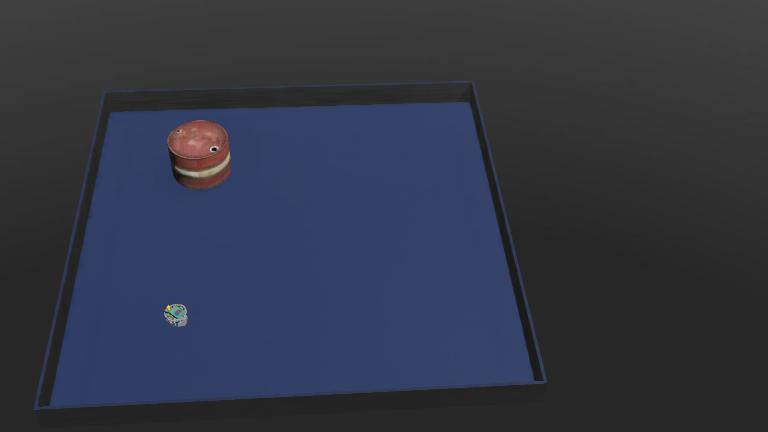
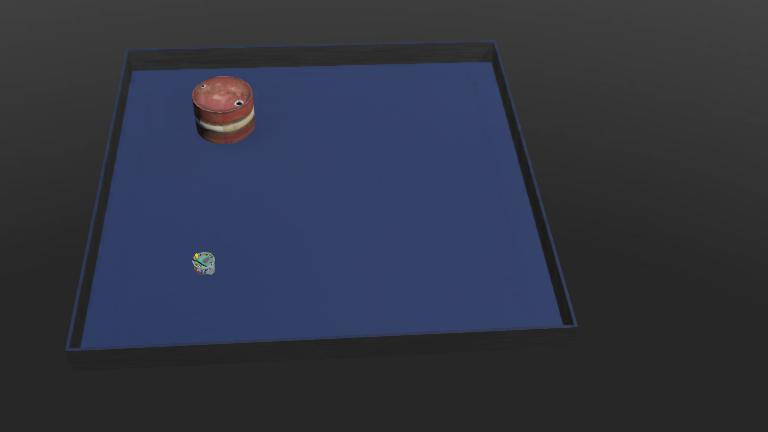
added q2c controller

Changed region(s): [[0.0312, 0.1204, 0.75, 0.963], [0.25, 0.5718, 0.2812, 0.6319], [0.2188, 0.6921, 0.25, 0.7523]]

diff --git a/Projects/Project1/controllers/q2c/q2c.py b/Projects/Project1/controllers/q2c/q2c.py
@@ -1,0 +1,118 @@
+# Copyright 1996-2023 Cyberbotics Ltd.
+#
+# Licensed under the Apache License, Version 2.0 (the "License");
+# you may not use this file except in compliance with the License.
+# You may obtain a copy of the License at
+#
+#     https://www.apache.org/licenses/LICENSE-2.0
+#
+# Unless required by applicable law or agreed to in writing, software
+# distributed under the License is distributed on an "AS IS" BASIS,
+# WITHOUT WARRANTIES OR CONDITIONS OF ANY KIND, either express or implied.
+# See the License for the specific language governing permissions and
+# limitations under the License.
+
+"""
+
+"""
+
+from controller import Robot
+import math
+
+MAX_SPEED = 6.28
+GOAL = [-0.35471, -0.35471]
+
+class Controller(Robot):
+    SPEED = 6
+    timeStep = 64
+    def __init__(self):
+        
+        super(Controller, self).__init__()
+
+        self.ps0 = self.getDevice('ps0')
+        self.ps1 = self.getDevice('ps1')
+        self.pen = self.getDevice('pen')
+        self.ps0.enable(self.timeStep)
+        self.ps1.enable(self.timeStep)
+
+        self.gps = self.getDevice('gps')
+        self.gps.enable(self.timeStep)
+
+        # Get a handler to the motors and set target position to infinity (speed control).
+        self.left_motor = self.getDevice('left wheel motor')
+        self.right_motor = self.getDevice('right wheel motor')
+        self.left_motor.setPosition(float('inf'))
+        self.right_motor.setPosition(float('inf'))
+        self.left_motor.setVelocity(0.0)
+        self.right_motor.setVelocity(0.0)
+        
+        
+        self.keyboard = self.getKeyboard()
+        self.keyboard.enable(self.timeStep)
+
+
+    def turn_towards_goal(self):
+        # Get the current GPS coordinates
+        gps_values = self.gps.getValues()
+
+        # Calculate the angle between the current orientation and the direction to the goal
+        angle_to_goal = math.atan2(GOAL[1] - gps_values[1], GOAL[0] - gps_values[0])
+
+        # Get the current velocity vector
+        current_velocity = self.gps.getSpeedVector()
+
+        # Calculate the angle of the current velocity vector
+        current_angle = math.atan2(current_velocity[1], current_velocity[0])
+
+        # Calculate the angle difference between the current orientation and the goal
+        angle_difference = angle_to_goal - current_angle
+
+        # Use proportional control to adjust the velocities
+        angular_velocity = 2 * angle_difference
+
+        # Calculate the adjusted velocities
+        left_velocity = MAX_SPEED - angular_velocity
+        right_velocity = MAX_SPEED + angular_velocity
+        dist = math.sqrt( pow(gps_values[0] - GOAL[0], 2) + pow(gps_values[1] - GOAL[1],2))
+        if left_velocity > MAX_SPEED:
+            left_velocity = MAX_SPEED
+        if right_velocity > MAX_SPEED:
+            right_velocity = MAX_SPEED
+        if left_velocity < -MAX_SPEED:
+            left_velocity = -MAX_SPEED
+        if right_velocity < -MAX_SPEED:
+            right_velocity = -MAX_SPEED
+        # Set the adjusted velocities
+        if (math.fabs(dist - 0.01) < 0.01):
+            left_velocity = 0
+            right_velocity = 0
+            print(dist)
+        self.left_motor.setVelocity(left_velocity)
+        self.right_motor.setVelocity(right_velocity)
+
+    def run(self):
+        print("Press 'G' to read the GPS device's position")
+        print("Press 'V' to read the GPS device's speed vector")
+        self.pen.write(True)
+        while self.step(self.timeStep) != -1:
+            key = chr(self.keyboard.getKey() & 0xff)
+            if key == 'G':
+                gps_values = self.gps.getValues()
+                print(f'GPS position: {gps_values[0]} {gps_values[1]} {gps_values[2]}')
+            elif key == 'V':
+                speed_vector_values = self.gps.getSpeedVector()
+                print(f'GPS speed vector: {speed_vector_values[0]} {speed_vector_values[1]} {speed_vector_values[2]}')
+            
+            gps_values = self.gps.getValues()
+            dist = math.sqrt( pow(gps_values[0] - GOAL[0], 2) + pow(gps_values[1] - GOAL[1],2))
+            
+            speed = dist * math.sqrt(2) * 0.74
+            if (speed > MAX_SPEED):
+                speed = MAX_SPEED  
+            
+            self.left_motor.setVelocity(speed)
+            self.right_motor.setVelocity(speed)
+            self.turn_towards_goal()
+
+controller = Controller()
+controller.run()
